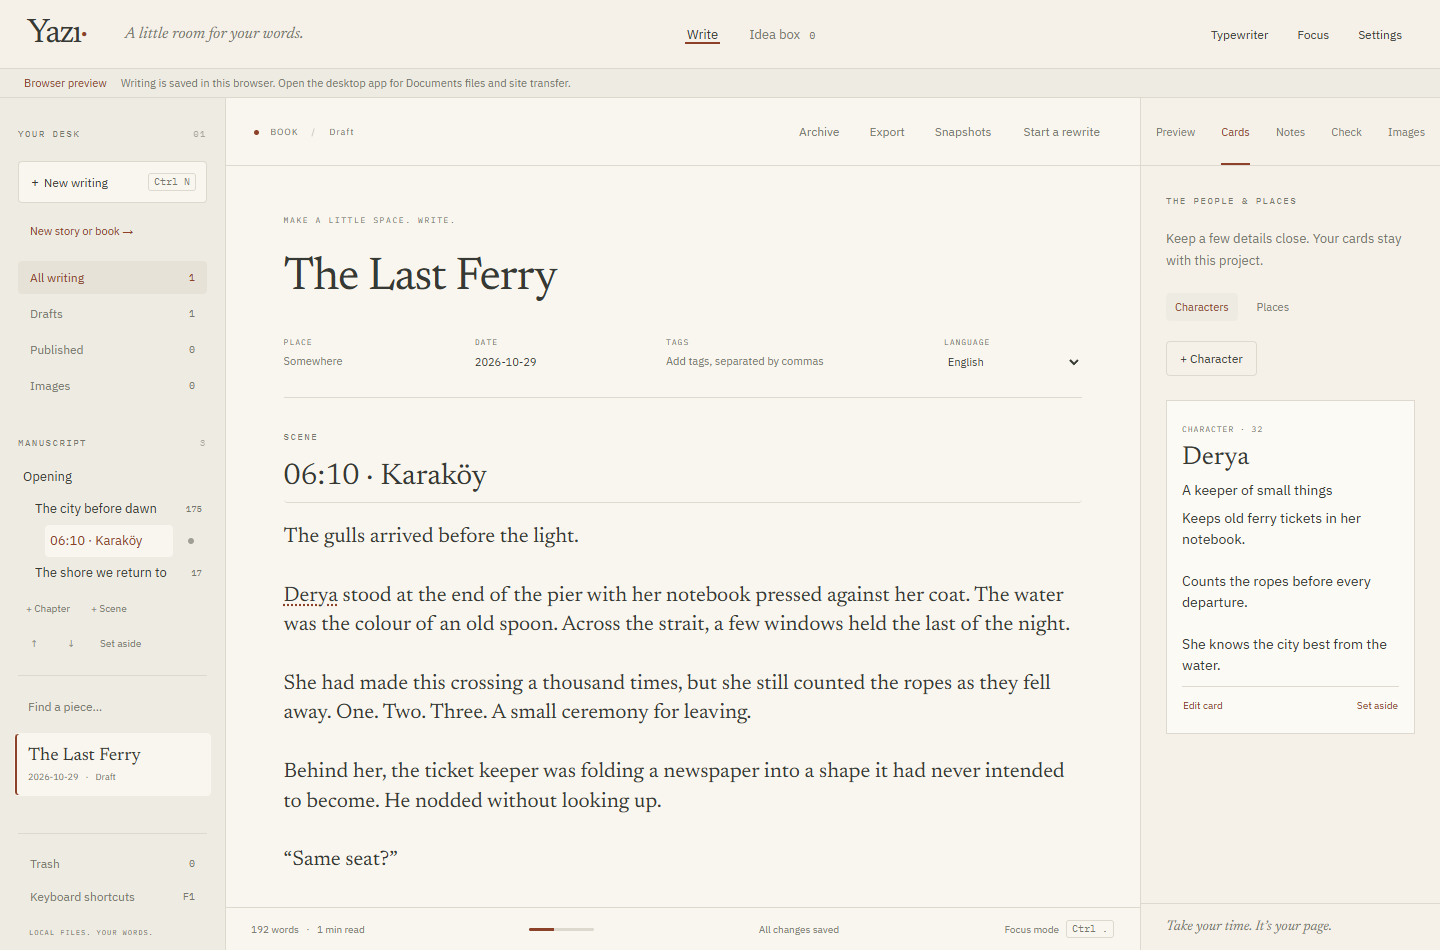
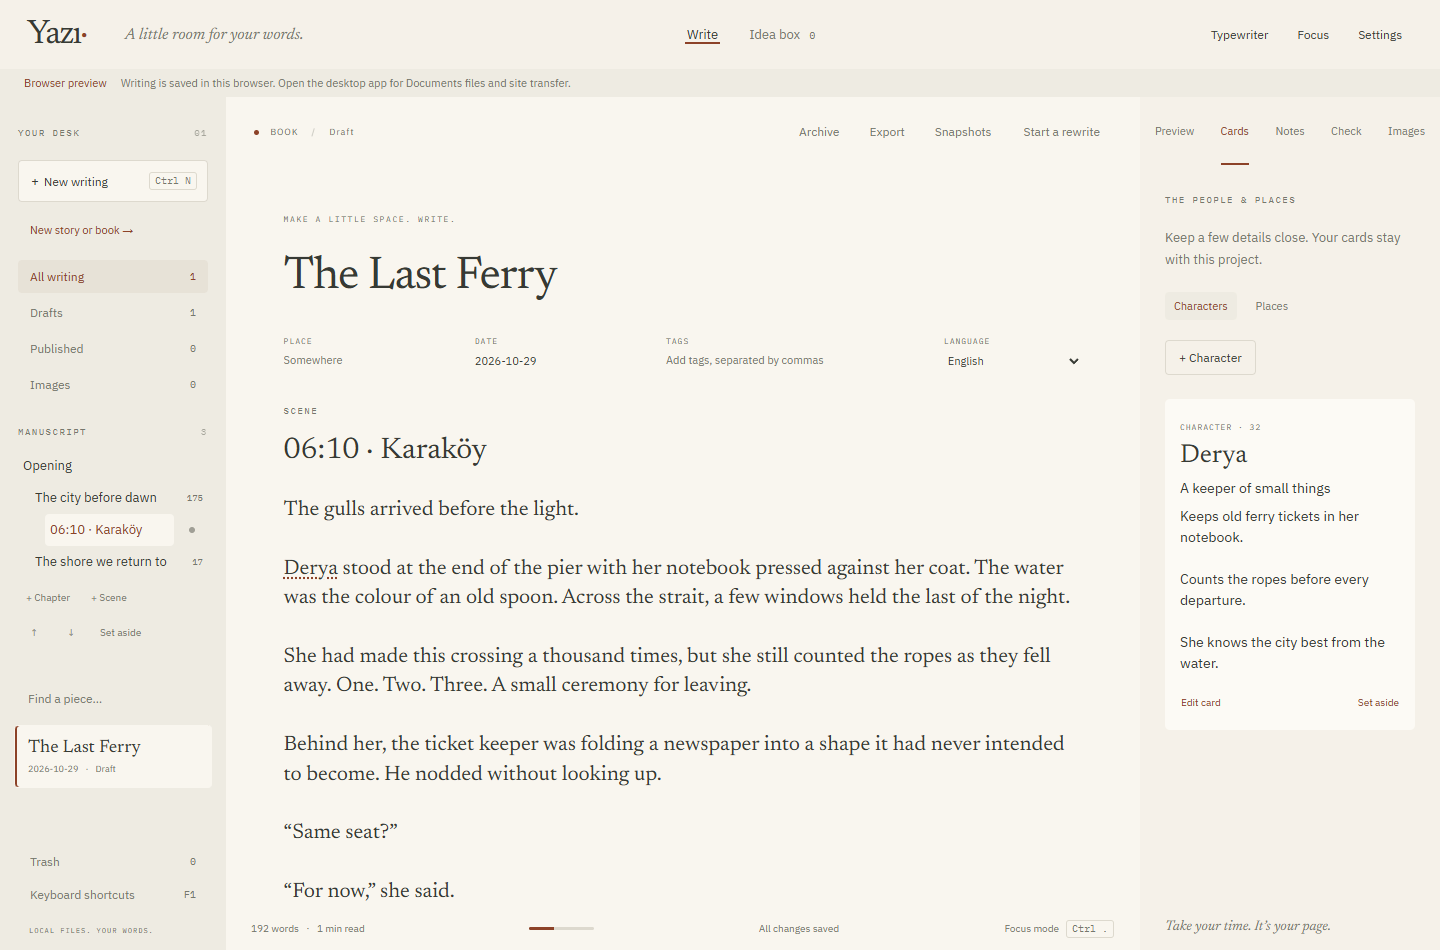
docs: phase 2 polish before/after screenshots at 1440 and 960
Before images are the pre-polish state Codex captured; after images come
from the current browser preview. README status updated (40 Node tests,
24 browser tests) and notes that the Rust side still needs a desktop
check, since it was not compiled on this machine.

diff --git a/README.md b/README.md
@@ -139,7 +139,11 @@ The browser preview cannot select or back up the desktop Documents folder. ZIP c
 
 ## Status
 
-Phase 1 and phase 2 source are implemented. The production frontend build, 27 Node tests and 13 browser tests pass. The screenshots and sample Markdown above come from actual browser-preview interactions in an isolated test profile.
+Phase 1, phase 2 and the phase 2 polish (docs/POLISH_phase2.md, items 1–8) are implemented. The production frontend build, 40 Node tests and 24 browser tests pass. The screenshots and sample Markdown above come from actual browser-preview interactions in an isolated test profile.
+
+Phase 2 polish, before → after: [1440 before](docs/screenshots/polish-before-1440.png) · [1440 after](docs/screenshots/polish-after-1440.png) · [960 before](docs/screenshots/polish-before-960.png) · [960 after](docs/screenshots/polish-after-960.png) · [Snapshot diff](docs/screenshots/polish-after-snapshots.png) · [Typewriter](docs/screenshots/polish-after-typewriter.png) · [Export](docs/screenshots/polish-after-export.png)
+
+Not yet verified on the desktop runtime: the Rust side (backup command, window-close permissions) has not been compiled on the current machine, which lacks the Visual Studio C++ build tools. Check backups, closing the window and spelling in `npm run desktop` before relying on them.
 
 Rust/MSVC and Pandoc/PDF engines are not installed in the agent environment. Native storage tests and Windows packaging remain unexecuted. Real DOCX/EPUB/PDF rendering remains unverified; process-contract tests are explicitly distinguished from rendering tests. The browser preview's real Markdown download works. See [verification](docs/verification.md). Phase 2's acceptance milestone still requires Emir to finish a story and export a PDF with the actual tools.
 
